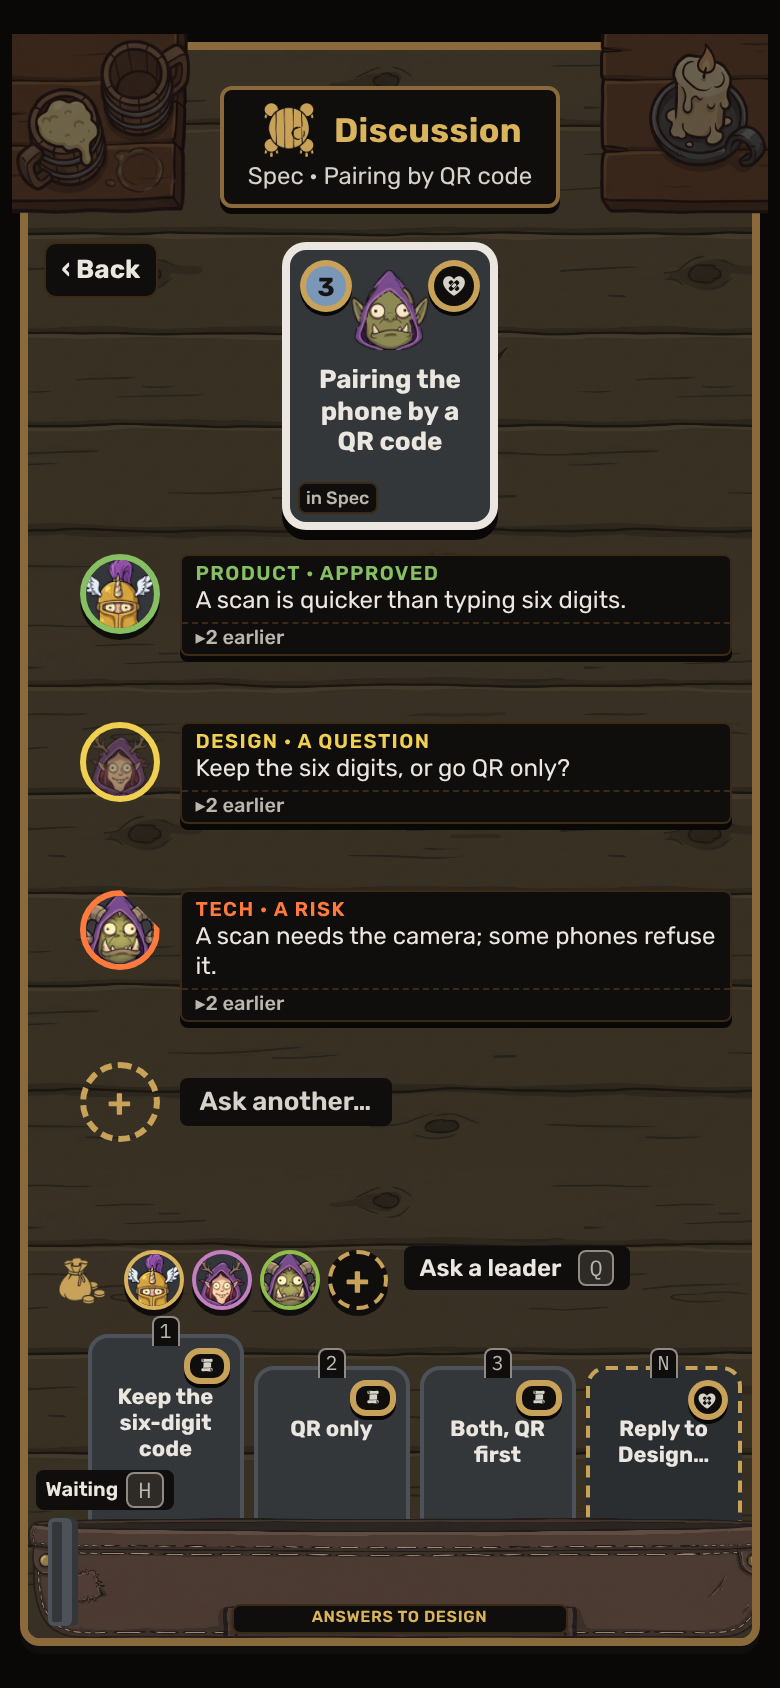
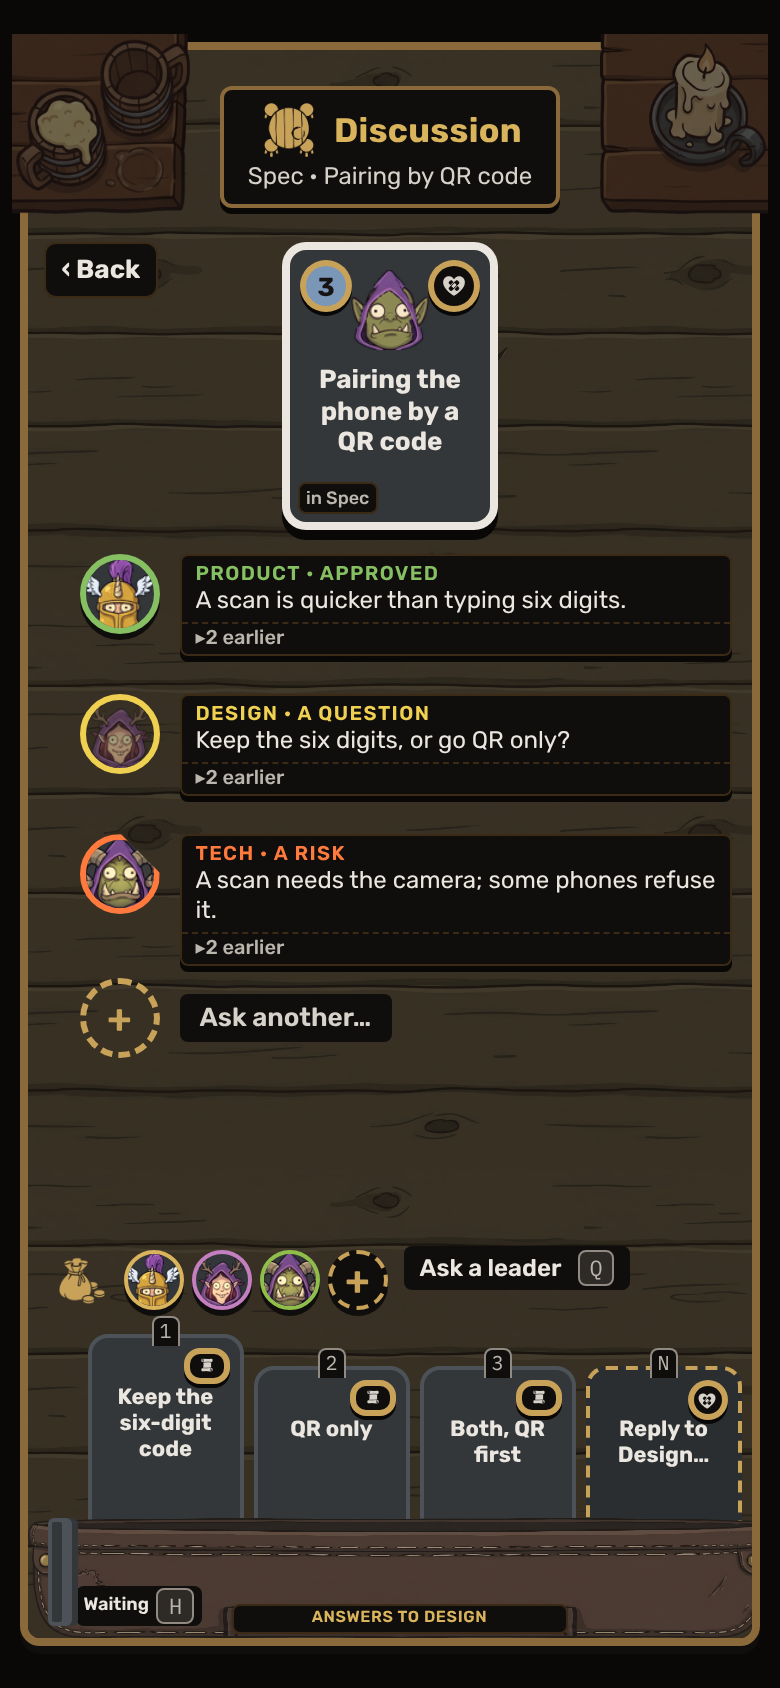
Mat mockups: Discussion (rows on the phone, the leaders differ) and Choice (ways laid by their count) with the lower pocket
Claude-Session: https://claude.ai/code/session_01MCU3dnmwpxzAdFr5WE7TTZ

Changed region(s): [[0.0923, 0.4005, 0.9538, 0.6777], [0.0923, 0.9242, 0.2769, 0.9858], [0.0308, 0.8626, 0.2462, 0.8934]]

diff --git a/docs/mockups/mat-scenes/discussion.html b/docs/mockups/mat-scenes/discussion.html
@@ -90,7 +90,7 @@ body[data-face="phone"] .pouchbar .tk { --tk: 30px; border-width: 2px; }
 body[data-face="phone"] .hand { left: 0; bottom: 0; }
 body[data-face="phone"] .hand .cards { gap: 5px; padding-left: 30px; justify-content: flex-start; }
 body[data-face="phone"] .waitpile { left: 10px; bottom: 6px; width: 9px; box-shadow: 3px 0 0 var(--ork-card-frame), 6px 0 0 var(--ork-card); }
-body[data-face="phone"] .waitlab { left: 4px; bottom: calc(6px + var(--ch) * .5 + 4px); font-size: 10px; line-height: 12px; }
+body[data-face="phone"] .waitlab { left: 24px; bottom: 6px; font-size: 9px; line-height: 11px; padding: 1px 4px; }
 body[data-face="phone"] .pplate { font-size: 8px; letter-spacing: .04em; }
 body[data-face="phone"] .card .when { display: none; }
 body[data-face="phone"] .hand .card { padding: 5px 4px 20px; --g: 20px; }
@@ -103,7 +103,7 @@ body[data-face="phone"] .hand .card.blank .pl { width: 22px; height: 22px; }
 body { --rep: repeat; --surface: url(surfaces/f1-tavern.jpg); --tile: 420px 420px; --tint: sepia(.75) saturate(1.5) brightness(.55); --emblem: url(../battle-field/emblems/discussion.png); }
 body[data-face="phone"] { --tile: 280px 280px; }
 
-.ring { position: absolute; left: 50%; top: 150px; width: 1000px; height: 380px; translate: -50% 0; }
+.ring { position: absolute; left: 50%; top: 200px; width: 1000px; height: 380px; translate: -50% 0; }
 body[data-face="phone"] .ring { left: 0; translate: none; width: 372px; height: 440px; top: 100px; }
 body[data-face="phone"][data-state="differ"] .ring { top: 156px; height: 400px; }
 .ring svg { position: absolute; left: 0; top: 0; width: 100%; height: 100%; overflow: visible; pointer-events: none; }
@@ -146,7 +146,7 @@ body[data-face="phone"] .s-product .slip { width: 180px; }
 body[data-face="phone"] .s-chair .nm { display: block; top: calc(var(--tk) / -2 - 18px); right: auto; left: 50%; translate: -50% 0; font-size: 11px; padding: 0 4px; }
 body[data-face="phone"] .centre { top: 245px; }
 /* the differ state */
-.balloon { display: none; position: absolute; left: 50%; top: 104px; translate: -50% 0; z-index: 6; align-items: center; gap: 14px; }
+.balloon { display: none; position: absolute; left: 50%; top: 110px; translate: -50% 0; z-index: 6; align-items: center; gap: 14px; }
 .balloon .tk { --tk: 46px; border-color: var(--ork-party-orkmaster); }
 .balloon .say { position: relative; padding: 8px 16px; background: var(--ork-plate); border: 2px solid var(--ork-bronze); border-radius: var(--ork-radius-control); box-shadow: 0 3px 0 var(--ork-room); font: 700 17px/22px var(--ork-font-text); color: var(--ork-ink); white-space: nowrap; }
 .balloon .say::before { content: ""; position: absolute; left: -8px; top: 50%; width: 12px; height: 12px; margin-top: -6px; rotate: 45deg; background: var(--ork-plate); border-left: 2px solid var(--ork-bronze); border-bottom: 2px solid var(--ork-bronze); }
@@ -154,7 +154,7 @@ body[data-face="phone"] .centre { top: 245px; }
 body[data-state="differ"] .balloon { display: flex; }
 body[data-state="differ"] .ell { display: none; } body[data-state="differ"] .ring .tie { display: block; }
 body[data-state="differ"] .s-tech { --x: 150px; --y: 150px; } body[data-state="differ"] .s-design { --x: 850px; --y: 150px; }
-body[data-state="differ"] .s-product { --x: 500px; --y: 342px; } body[data-state="differ"] .s-chair { --x: 760px; --y: 342px; }
+body[data-state="differ"] .s-product { --x: 500px; --y: 356px; } body[data-state="differ"] .s-chair { --x: 760px; --y: 342px; }
 body[data-state="differ"] .s-tech .nm, body[data-state="differ"] .s-design .nm { display: none; }
 body[data-state="differ"] .s-tech.sl-l .slip, body[data-state="differ"] .s-tech .slip { left: calc(var(--tk) / -2); right: auto; top: calc(var(--tk) / 2 + 10px); text-align: left; }
 body[data-state="differ"] .s-design .slip { right: calc(var(--tk) / -2); left: auto; top: calc(var(--tk) / 2 + 10px); text-align: right; }
@@ -185,8 +185,8 @@ body[data-face="phone"] .ring { display: none; }
 .rows, .phonecard { display: none; }
 body[data-face="phone"] .phonecard { display: block; position: absolute; left: 50%; top: 98px; translate: -50% 0; z-index: 3; }
 body[data-face="phone"] .rows { display: flex; flex-direction: column; gap: 8px; position: absolute; left: 10px; right: 10px; top: 252px; z-index: 3; }
-body[data-face="phone"][data-state="differ"] .rows { top: 312px; }
-.rows .row { position: relative; display: flex; gap: 10px; align-items: flex-start; height: 76px; padding-left: 16px; }
+body[data-face="phone"][data-state="differ"] .rows { top: 308px; }
+.rows .row { position: relative; display: flex; gap: 10px; align-items: flex-start; height: 62px; padding-left: 16px; }
 .rows .row .tk { margin-top: 0; }
 .rows .row .slip { position: static; width: auto; flex: 1; min-width: 0; text-align: left; font-size: 12px; line-height: 15px; padding: 3px 7px 5px; }
 .rows .row .slip small { font-size: 10px; line-height: 12px; }
@@ -194,9 +194,9 @@ body[data-face="phone"][data-state="differ"] .rows { top: 312px; }
 .rows .row.chair { height: 44px; align-items: center; }
 .rows .row.chair .nm { position: static; translate: none; display: block; font: 600 13px/16px var(--ork-font-text); background: var(--ork-plate); padding: 4px 10px; border-radius: 4px; color: var(--ork-ink-read); }
 .rows .pair { position: relative; display: flex; flex-direction: column; gap: 8px; }
-body[data-state="differ"] .rows .pair::before { content: ""; position: absolute; left: 4px; top: 20px; width: 20px; height: 84px; border: 2px solid var(--ork-danger); border-right: 0; }
+body[data-state="differ"] .rows .pair::before { content: ""; position: absolute; left: 4px; top: 20px; width: 20px; height: 70px; border: 2px solid var(--ork-danger); border-right: 0; }
 .rows .swords { display: none; }
-body[data-face="phone"][data-state="differ"] .rows .swords { display: block; left: 4px; top: 62px; width: 26px; height: 26px; translate: -50% -50%; }
+body[data-face="phone"][data-state="differ"] .rows .swords { display: block; left: 4px; top: 55px; width: 26px; height: 26px; translate: -50% -50%; }
 body[data-face="phone"][data-state="differ"] .rows .swords i { inset: 4px; }
 body[data-face="phone"] .phonecard .card.big { --g: 26px; --nw: 104px; --nh: 140px; padding: 8px 6px 28px; }
 body[data-face="phone"] .phonecard .card.big .hd { width: 44px; height: 44px; } body[data-face="phone"] .phonecard .card.big b.t { font-size: 13px; } body[data-face="phone"] .phonecard .card.big .ln { display: none; }

diff --git a/docs/mockups/mat-scenes/choice.html b/docs/mockups/mat-scenes/choice.html
@@ -90,7 +90,7 @@ body[data-face="phone"] .pouchbar .tk { --tk: 30px; border-width: 2px; }
 body[data-face="phone"] .hand { left: 0; bottom: 0; }
 body[data-face="phone"] .hand .cards { gap: 5px; padding-left: 30px; justify-content: flex-start; }
 body[data-face="phone"] .waitpile { left: 10px; bottom: 6px; width: 9px; box-shadow: 3px 0 0 var(--ork-card-frame), 6px 0 0 var(--ork-card); }
-body[data-face="phone"] .waitlab { left: 4px; bottom: calc(6px + var(--ch) * .5 + 4px); font-size: 10px; line-height: 12px; }
+body[data-face="phone"] .waitlab { left: 24px; bottom: 6px; font-size: 9px; line-height: 11px; padding: 1px 4px; }
 body[data-face="phone"] .pplate { font-size: 8px; letter-spacing: .04em; }
 body[data-face="phone"] .card .when { display: none; }
 body[data-face="phone"] .hand .card { padding: 5px 4px 20px; --g: 20px; }
